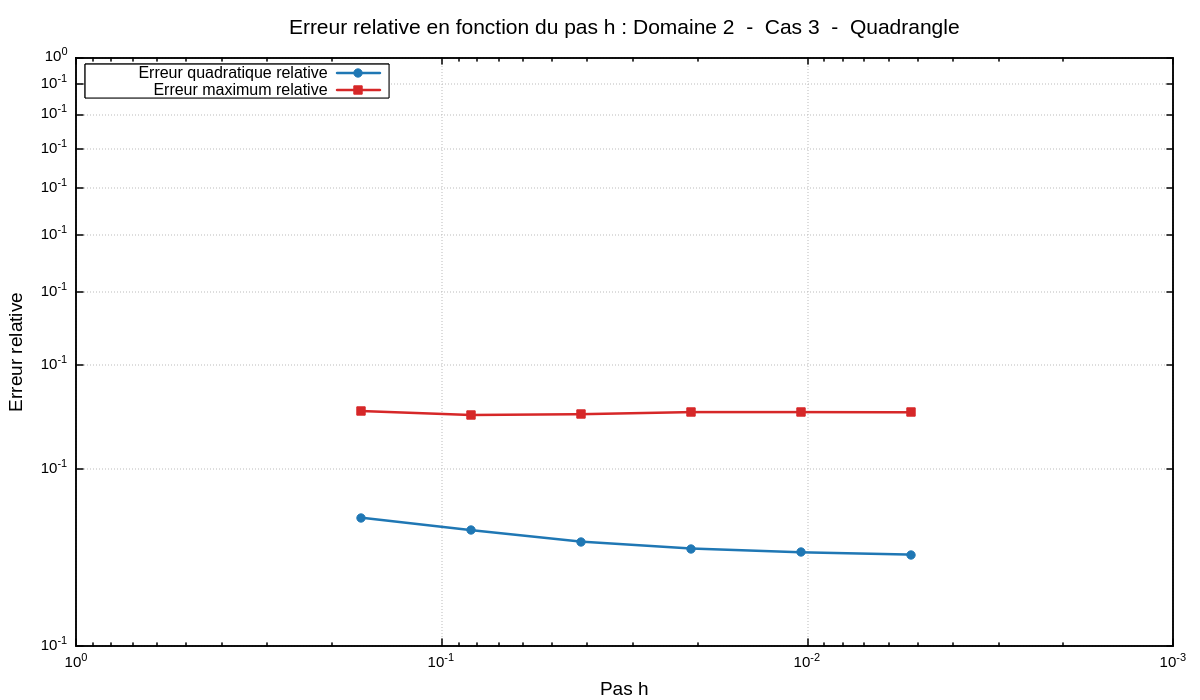
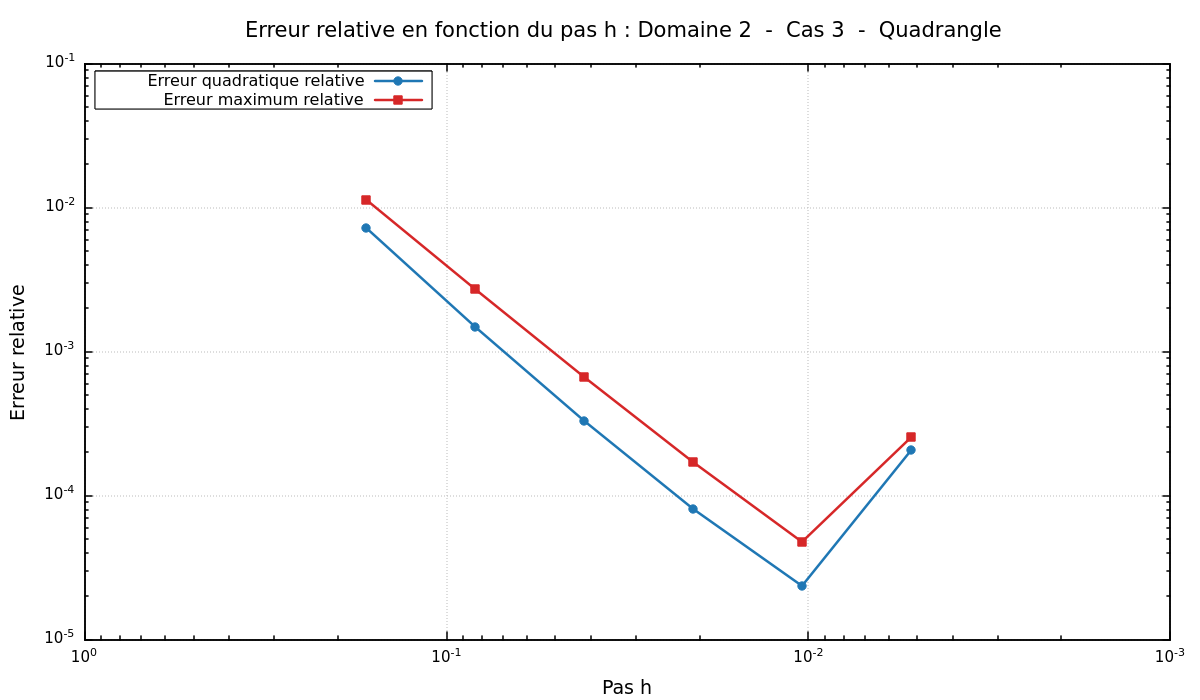
correction domaine 2 cas 3

diff --git a/2b_ElementaireB/fct_def_pb.c b/2b_ElementaireB/fct_def_pb.c
@@ -94,7 +94,7 @@ float FN(float* x){
       normale[0] = 0.0f;
       normale[1] =-1.0f;
     }
-    else if (1.0f/3.0f-1.0e-7f<x[0] && x[0]<1.0f/3.0f+1.0e-7f) {
+    else if (fabsf(x[0] - 1.0f/3.0f) < 1.0e-4f) {
       normale[0] = 1.0f;
       normale[1] = 0.0f;
     }
